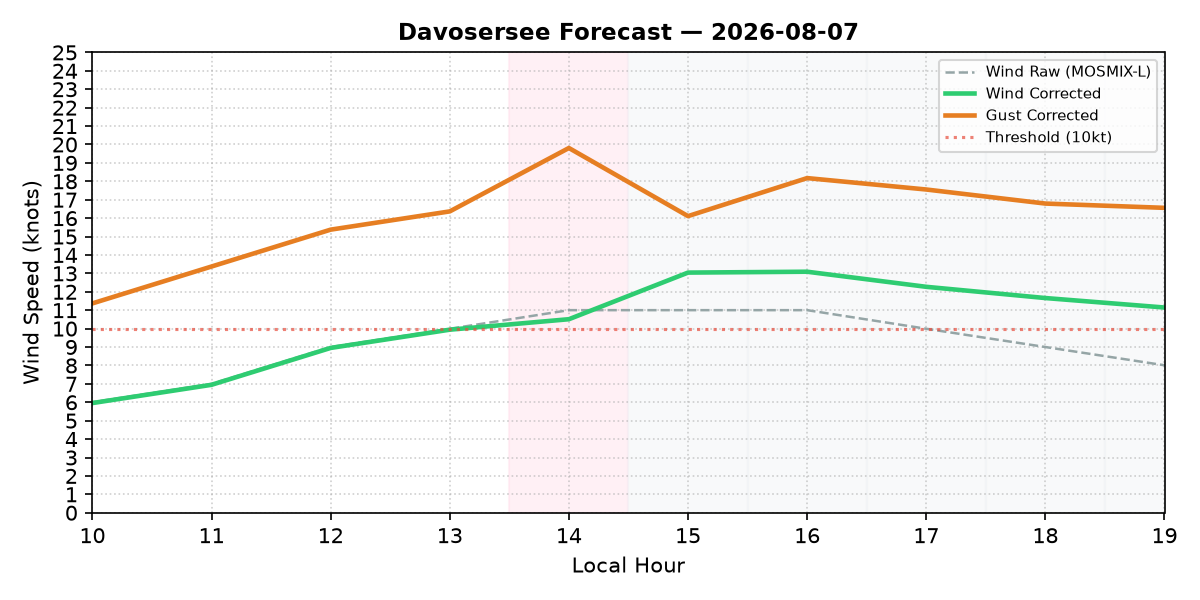
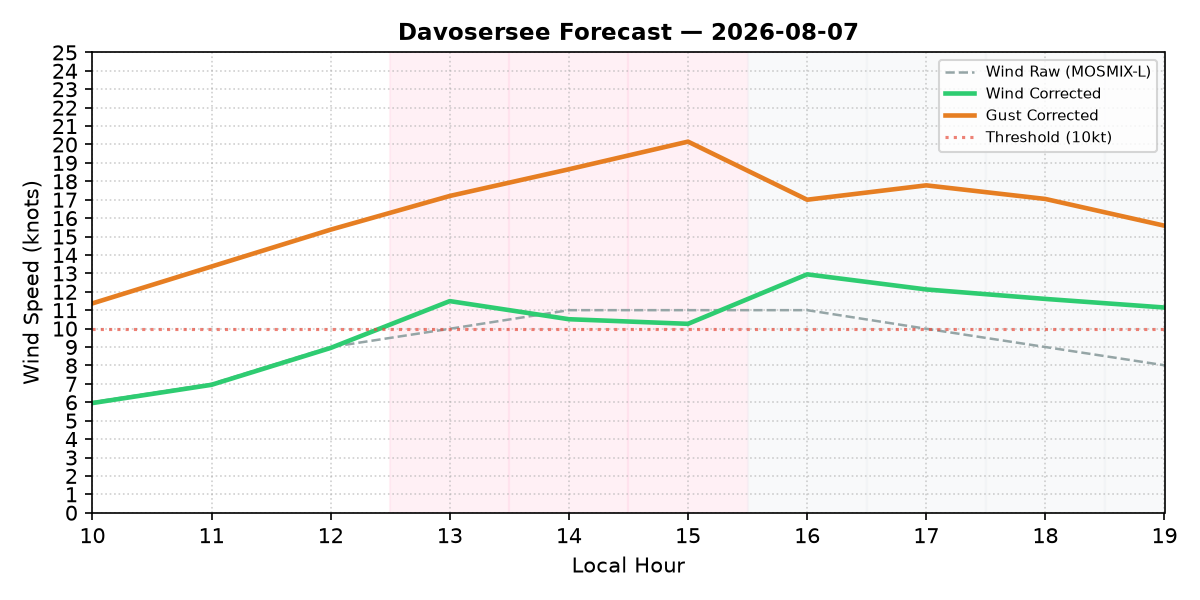
Automated hourly HTML update

diff --git a/index.html b/index.html
@@ -24,7 +24,7 @@
     <div class="header">
         <h1>🏄 Davosersee Wind Forecast by Camille, DWD MOSMIX-L data with corrections</h1>
         <h1>-- experimental, at your own risk, no guarantees! --</h1>
-        <div class="version">Generated: v2.5-json (2026-08-06 00:14:00 UTC)</div>
+        <div class="version">Generated: v2.5-json (2026-08-06 07:56:14 UTC)</div>
     </div>
 
     <div class="day-card">
@@ -52,49 +52,49 @@
 
                 <tr>
                     <td>10:00</td>
-                    <td>6.0</td>
-                    <td><b>12.8</b></td>
-                    <td>12.8</td>
-                    <td>NNE (23°)</td>
-                    <td>17.9</td>
-                    <td>59%</td>
-                    <td>15%</td>
+                    <td>7.0</td>
+                    <td><b>13.0</b></td>
+                    <td>13.0</td>
+                    <td>NNE (21°)</td>
+                    <td>18.0</td>
+                    <td>56%</td>
+                    <td>5%</td>
                     <td>4.3</td>
                     <td>Foehn + PartlyCloudy</td>
                 </tr>
                 <tr>
                     <td>11:00</td>
-                    <td>8.0</td>
-                    <td><b>12.3</b></td>
-                    <td>13.8</td>
-                    <td>NNE (24°)</td>
-                    <td>18.9</td>
-                    <td>62%</td>
-                    <td>18%</td>
-                    <td>4.3</td>
+                    <td>9.0</td>
+                    <td><b>12.8</b></td>
+                    <td>14.2</td>
+                    <td>NNE (21°)</td>
+                    <td>19.0</td>
+                    <td>58%</td>
+                    <td>8%</td>
+                    <td>4.6</td>
                     <td>Foehn + PartlyCloudy</td>
                 </tr>
                 <tr>
                     <td>12:00</td>
-                    <td>10.0</td>
-                    <td><b>11.7</b></td>
-                    <td>16.7</td>
+                    <td>11.0</td>
+                    <td><b>11.5</b></td>
+                    <td>16.9</td>
                     <td>NNE (25°)</td>
-                    <td>19.3</td>
-                    <td>60%</td>
-                    <td>30%</td>
-                    <td>4.4</td>
+                    <td>19.6</td>
+                    <td>61%</td>
+                    <td>23%</td>
+                    <td>4.3</td>
                     <td>Foehn + PartlyCloudy</td>
                 </tr>
                 <tr>
                     <td>13:00</td>
-                    <td>10.0</td>
+                    <td>11.0</td>
                     <td><b>11.3</b></td>
                     <td>17.6</td>
-                    <td>NNE (27°)</td>
-                    <td>19.6</td>
+                    <td>NNE (26°)</td>
+                    <td>19.8</td>
+                    <td>49%</td>
                     <td>45%</td>
-                    <td>43%</td>
                     <td>4.5</td>
                     <td>Foehn + PartlyCloudy</td>
                 </tr>
@@ -104,22 +104,22 @@
                     <td><b>6.8</b></td>
                     <td>14.0</td>
                     <td>NNE (28°)</td>
-                    <td>19.6</td>
-                    <td>46%</td>
-                    <td>55%</td>
+                    <td>19.9</td>
+                    <td>47%</td>
+                    <td>68%</td>
                     <td>4.5</td>
                     <td>Foehn + PartlyCloudy + Precip(Other_Precip)</td>
                 </tr>
                 <tr>
                     <td>15:00</td>
                     <td>11.0</td>
-                    <td><b>6.8</b></td>
-                    <td>15.0</td>
-                    <td>NNE (31°)</td>
-                    <td>19.7</td>
-                    <td>52%</td>
-                    <td>63%</td>
-                    <td>4.8</td>
+                    <td><b>8.9</b></td>
+                    <td>13.7</td>
+                    <td>NNE (30°)</td>
+                    <td>19.6</td>
+                    <td>50%</td>
+                    <td>78%</td>
+                    <td>4.7</td>
                     <td>Foehn + PartlyCloudy + Precip(Other_Precip)</td>
                 </tr>
                 <tr>
@@ -127,24 +127,24 @@
                     <td>11.0</td>
                     <td><b>6.8</b></td>
                     <td>15.0</td>
-                    <td>NNE (28°)</td>
+                    <td>NNE (30°)</td>
                     <td>19.2</td>
-                    <td>55%</td>
+                    <td>53%</td>
                     <td>63%</td>
-                    <td>5.0</td>
+                    <td>4.9</td>
                     <td>Foehn + PartlyCloudy + Precip(Other_Precip)</td>
                 </tr>
                 <tr>
                     <td>17:00</td>
-                    <td>11.0</td>
-                    <td><b>6.8</b></td>
-                    <td>15.0</td>
-                    <td>NNE (29°)</td>
+                    <td>10.0</td>
+                    <td><b>8.5</b></td>
+                    <td>14.5</td>
+                    <td>NNE (30°)</td>
                     <td>18.4</td>
-                    <td>66%</td>
-                    <td>65%</td>
-                    <td>5.2</td>
-                    <td>Foehn + PartlyCloudy + Precip(Other_Precip)</td>
+                    <td>59%</td>
+                    <td>58%</td>
+                    <td>5.1</td>
+                    <td>Foehn + PartlyCloudy + Precip(Rain)</td>
                 </tr>
                 <tr>
                     <td>18:00</td>
@@ -152,8 +152,8 @@
                     <td><b>9.9</b></td>
                     <td>20.4</td>
                     <td>NNE (28°)</td>
-                    <td>17.3</td>
-                    <td>74%</td>
+                    <td>17.5</td>
+                    <td>72%</td>
                     <td>48%</td>
                     <td>5.3</td>
                     <td>Foehn + Cloudy</td>
@@ -164,10 +164,10 @@
                     <td><b>9.0</b></td>
                     <td>18.4</td>
                     <td>NNE (27°)</td>
-                    <td>16.6</td>
-                    <td>75%</td>
-                    <td>23%</td>
-                    <td>5.8</td>
+                    <td>16.2</td>
+                    <td>77%</td>
+                    <td>33%</td>
+                    <td>5.5</td>
                     <td>Foehn + Cloudy</td>
                 </tr>
             </tbody>
@@ -201,11 +201,11 @@
                     <td>6.0</td>
                     <td><b>6.0</b></td>
                     <td>11.4</td>
-                    <td>NNE (20°)</td>
-                    <td>15.8</td>
-                    <td>72%</td>
-                    <td>0%</td>
-                    <td>5.1</td>
+                    <td>NNE (21°)</td>
+                    <td>15.7</td>
+                    <td>69%</td>
+                    <td>5%</td>
+                    <td>5.0</td>
                     <td>Foehn + Cloudy</td>
                 </tr>
                 <tr>
@@ -213,11 +213,11 @@
                     <td>7.0</td>
                     <td><b>6.9</b></td>
                     <td>13.4</td>
-                    <td>NNE (22°)</td>
+                    <td>NNE (23°)</td>
                     <td>16.8</td>
-                    <td>69%</td>
-                    <td>3%</td>
-                    <td>4.9</td>
+                    <td>67%</td>
+                    <td>0%</td>
+                    <td>5.0</td>
                     <td>Foehn + Cloudy</td>
                 </tr>
                 <tr>
@@ -225,94 +225,94 @@
                     <td>9.0</td>
                     <td><b>9.0</b></td>
                     <td>15.4</td>
-                    <td>NNE (24°)</td>
-                    <td>17.3</td>
-                    <td>72%</td>
-                    <td>8%</td>
-                    <td>4.3</td>
+                    <td>NNE (25°)</td>
+                    <td>17.5</td>
+                    <td>67%</td>
+                    <td>5%</td>
+                    <td>4.4</td>
                     <td>Foehn + Cloudy</td>
                 </tr>
                 <tr>
                     <td>13:00</td>
                     <td>10.0</td>
-                    <td><b>9.9</b></td>
-                    <td>16.4</td>
-                    <td>NNE (25°)</td>
-                    <td>17.7</td>
-                    <td>70%</td>
-                    <td>13%</td>
-                    <td>4.0</td>
-                    <td>Foehn + Cloudy</td>
+                    <td><b>11.5</b></td>
+                    <td>17.2</td>
+                    <td>NNE (26°)</td>
+                    <td>17.9</td>
+                    <td>62%</td>
+                    <td>10%</td>
+                    <td>4.1</td>
+                    <td>Foehn + PartlyCloudy</td>
                 </tr>
                 <tr>
                     <td>14:00</td>
                     <td>11.0</td>
                     <td><b>10.5</b></td>
-                    <td>19.8</td>
+                    <td>18.7</td>
                     <td>NNE (29°)</td>
-                    <td>18.3</td>
-                    <td>64%</td>
-                    <td>13%</td>
-                    <td>3.8</td>
+                    <td>18.4</td>
+                    <td>60%</td>
+                    <td>15%</td>
+                    <td>3.9</td>
                     <td>Foehn + PartlyCloudy</td>
                 </tr>
                 <tr>
                     <td>15:00</td>
                     <td>11.0</td>
-                    <td><b>13.0</b></td>
-                    <td>16.1</td>
-                    <td>NNE (31°)</td>
-                    <td>18.4</td>
-                    <td>57%</td>
+                    <td><b>10.3</b></td>
+                    <td>20.2</td>
+                    <td>NNE (30°)</td>
+                    <td>18.8</td>
+                    <td>59%</td>
                     <td>23%</td>
-                    <td>3.4</td>
-                    <td>PartlyCloudy</td>
+                    <td>3.6</td>
+                    <td>Foehn + PartlyCloudy</td>
                 </tr>
                 <tr>
                     <td>16:00</td>
                     <td>11.0</td>
-                    <td><b>13.1</b></td>
-                    <td>18.2</td>
-                    <td>NNE (32°)</td>
-                    <td>18.3</td>
-                    <td>55%</td>
-                    <td>40%</td>
-                    <td>3.4</td>
+                    <td><b>12.9</b></td>
+                    <td>17.0</td>
+                    <td>NNE (29°)</td>
+                    <td>18.6</td>
+                    <td>58%</td>
+                    <td>43%</td>
+                    <td>3.5</td>
                     <td>PartlyCloudy</td>
                 </tr>
                 <tr>
                     <td>17:00</td>
                     <td>10.0</td>
-                    <td><b>12.3</b></td>
-                    <td>17.6</td>
-                    <td>NNE (29°)</td>
-                    <td>17.9</td>
-                    <td>46%</td>
-                    <td>33%</td>
-                    <td>3.3</td>
+                    <td><b>12.1</b></td>
+                    <td>17.8</td>
+                    <td>NNE (33°)</td>
+                    <td>18.2</td>
+                    <td>54%</td>
+                    <td>45%</td>
+                    <td>3.4</td>
                     <td>PartlyCloudy</td>
                 </tr>
                 <tr>
                     <td>18:00</td>
                     <td>9.0</td>
-                    <td><b>11.7</b></td>
-                    <td>16.8</td>
-                    <td>NNE (22°)</td>
-                    <td>17.1</td>
-                    <td>47%</td>
-                    <td>23%</td>
-                    <td>3.4</td>
+                    <td><b>11.6</b></td>
+                    <td>17.0</td>
+                    <td>NNE (28°)</td>
+                    <td>17.2</td>
+                    <td>55%</td>
+                    <td>30%</td>
+                    <td>3.5</td>
                     <td>PartlyCloudy</td>
                 </tr>
                 <tr>
                     <td>19:00</td>
                     <td>8.0</td>
                     <td><b>11.1</b></td>
-                    <td>16.6</td>
-                    <td>NNE (27°)</td>
+                    <td>15.6</td>
+                    <td>NNE (28°)</td>
                     <td>16.1</td>
-                    <td>49%</td>
-                    <td>20%</td>
+                    <td>55%</td>
+                    <td>30%</td>
                     <td>3.3</td>
                     <td>PartlyCloudy</td>
                 </tr>
